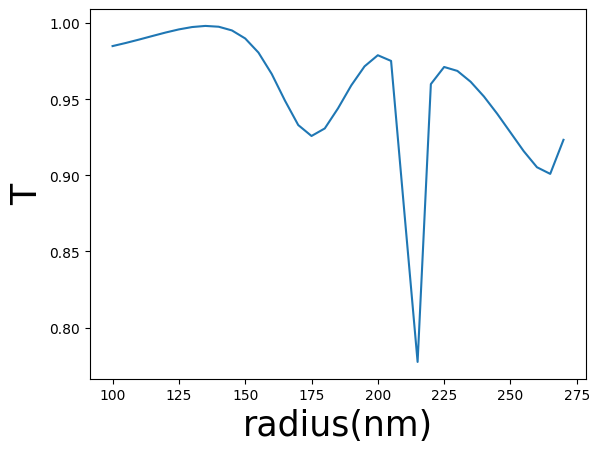
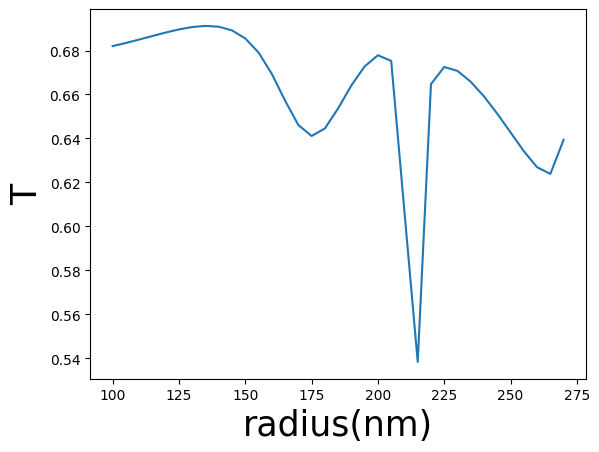
Add Fresnel example to check the plane wave setting

diff --git a/AtomLib/Test/fresnel.py b/AtomLib/Test/fresnel.py
@@ -1,0 +1,88 @@
+# 3D meta-atom Library Simulation example
+# This example bases on Nat. Commun. 6:7069 doi:10.1038/ncomms8069(2015)
+# Ping-Yen
+import S4
+import numpy as np
+import os 
+import time
+import math
+
+S = S4.New(Lattice=((0,0),(0,0)),NumBasis=100)
+wavelength=1.55  # operating wavelength 
+# H_atom sweep loop
+# Material definition
+S.SetMaterial(Name = 'Si', Epsilon = 12.0647) # From Lumerical
+S.SetMaterial(Name = 'a-Si', Epsilon = 11.7649) # From paper       
+S.SetMaterial(Name = 'Vacuum', Epsilon = 1)
+S.SetMaterial(Name = 'glass', Epsilon=2.08514)# SiO2 
+
+
+
+input_wave = "s"
+print("Current input type: ",input_wave,"-wave")
+n_glass = math.sqrt(2.08514)
+theta_i = math.radians(30)
+sin_t = math.sin(theta_i)/n_glass
+theta_t = math.asin(sin_t)
+
+
+# Layer definition(from bottom to top)
+S.AddLayer(
+    Name = 'Air', 
+    Thickness = 0, 
+    Material = 'Vacuum')     
+S.AddLayer(
+    Name = 'Glass', 
+    Thickness = 0, 
+    Material = 'glass')
+if input_wave == "s":
+        
+    S.SetExcitationPlanewave(
+        IncidenceAngles=(math.degrees(theta_i),67),
+        sAmplitude=1,
+        pAmplitude=0,
+        Order=0)       
+else:
+
+    S.SetExcitationPlanewave(
+        IncidenceAngles=(math.degrees(theta_i),0),
+        sAmplitude=0,
+        pAmplitude=1,
+        Order=0)       
+# Calculation of Spectrum
+freq = 1/wavelength
+S.SetFrequency(freq)
+Glist = S.GetBasisSet()
+(forw_P1,back_P1) = S.GetPowerFlux(Layer = 'Glass', zOffset = 0)
+(forw_P2,back_P2) = S.GetPowerFlux(Layer = 'Air', zOffset = 0)
+(forw_A,back_A) = S.GetAmplitudes(Layer = 'Glass', zOffset = 0)
+(forw_B,back_B) = S.GetAmplitudes(Layer = 'Air',zOffset=0)
+Trans = forw_P1/forw_P2 # Transmitance   
+Refl = back_P2/forw_P1 # Reflectance
+# Finding out the index of the maximum forw_A 
+tmp=[]
+for ix in range(len(forw_A)):
+    tmp.append(forw_A[ix])
+x = np.abs(tmp)
+s = np.argmax(x)
+
+# Analytical solution for S-wave
+T_coe_s = (2*math.cos(theta_i)/(math.cos(theta_i)+n_glass*math.cos(theta_t)))
+T_ana_s = n_glass*math.cos(theta_t)/math.cos(theta_i)*T_coe_s**2
+
+T_coe_p = (2*math.cos(theta_i)/(n_glass*math.cos(theta_i)+math.cos(theta_t)))
+T_ana_p = n_glass*math.cos(theta_t)/math.cos(theta_i)*T_coe_p**2
+
+print("p-wave transmission coefficient",T_coe_p)
+print("s-wave transmission coefficient",T_coe_s)
+
+
+print("(forw_glass,back_glass,forw_air,back_air)=  ",forw_P1,back_P1,forw_P2,back_P2)
+print("Transmittance= ",Trans)
+print("Analytical Transmittance of p-wave= ",T_ana_p)
+print("Analytical Transmittance of s-wave= ",T_ana_s)
+print("Reflectance= ",Refl)
+#print("Trans_E= ",forw_A[s])
+#print("Back_E= ",back_A)
+
+    
